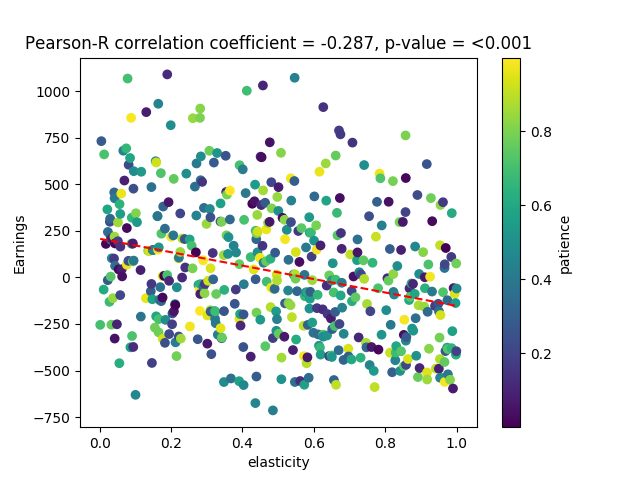
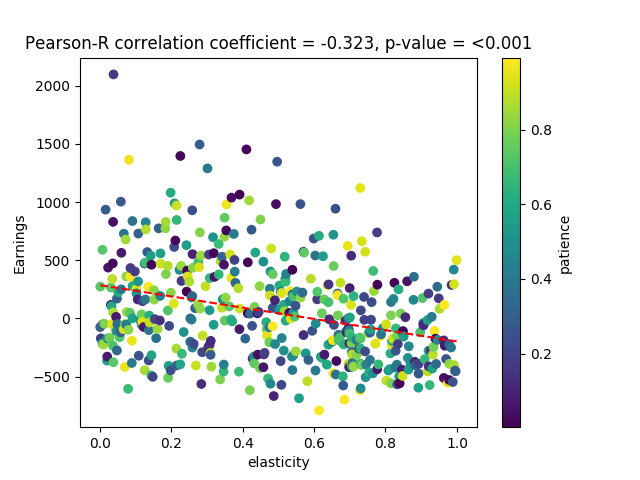
Working version

diff --git a/constants.py b/constants.py
@@ -14,7 +14,7 @@ WEST = 3
 
 INF = 9999999
 
-N_AGENTS = 5
+N_AGENTS = 20
 MAX_TIME = 1000
 
 # agent parameters
@@ -48,8 +48,8 @@ RECTDIST = 1  # size of borders between tiles
 RECTSIZE = 40  # size of tiles
 MAX_UPDATES_PER_S = 10
 
-TILES_X = 10  # number of tiles on each row
-TILES_Y = 2  # number of tiles in each column
+TILES_X = 25  # number of tiles on each row
+TILES_Y = 25  # number of tiles in each column
 
 WIDTH = TILES_X * (RECTDIST + RECTSIZE) + RECTDIST
 HEIGHT = TILES_Y * (RECTDIST + RECTSIZE) + RECTDIST

diff --git a/main.py b/main.py
@@ -47,7 +47,6 @@ for i in tqdm(range(constants.MAX_TIME)):
         break
 
 for name, agent in SYSTEM.agents.items():
-    print(agent.name)
     agents_at_end.append(copy.deepcopy(agent))
 
 pygame.quit()

diff --git a/make_csv.py b/make_csv.py
@@ -61,6 +61,4 @@ class MakeCsv():
         print(df)
 
         df.to_csv('results/'+str(datetime.datetime.now())+".csv")
-        df.plot(x='Earnings', y=['elasticity', 'patience'])
-        plt.show()
 
